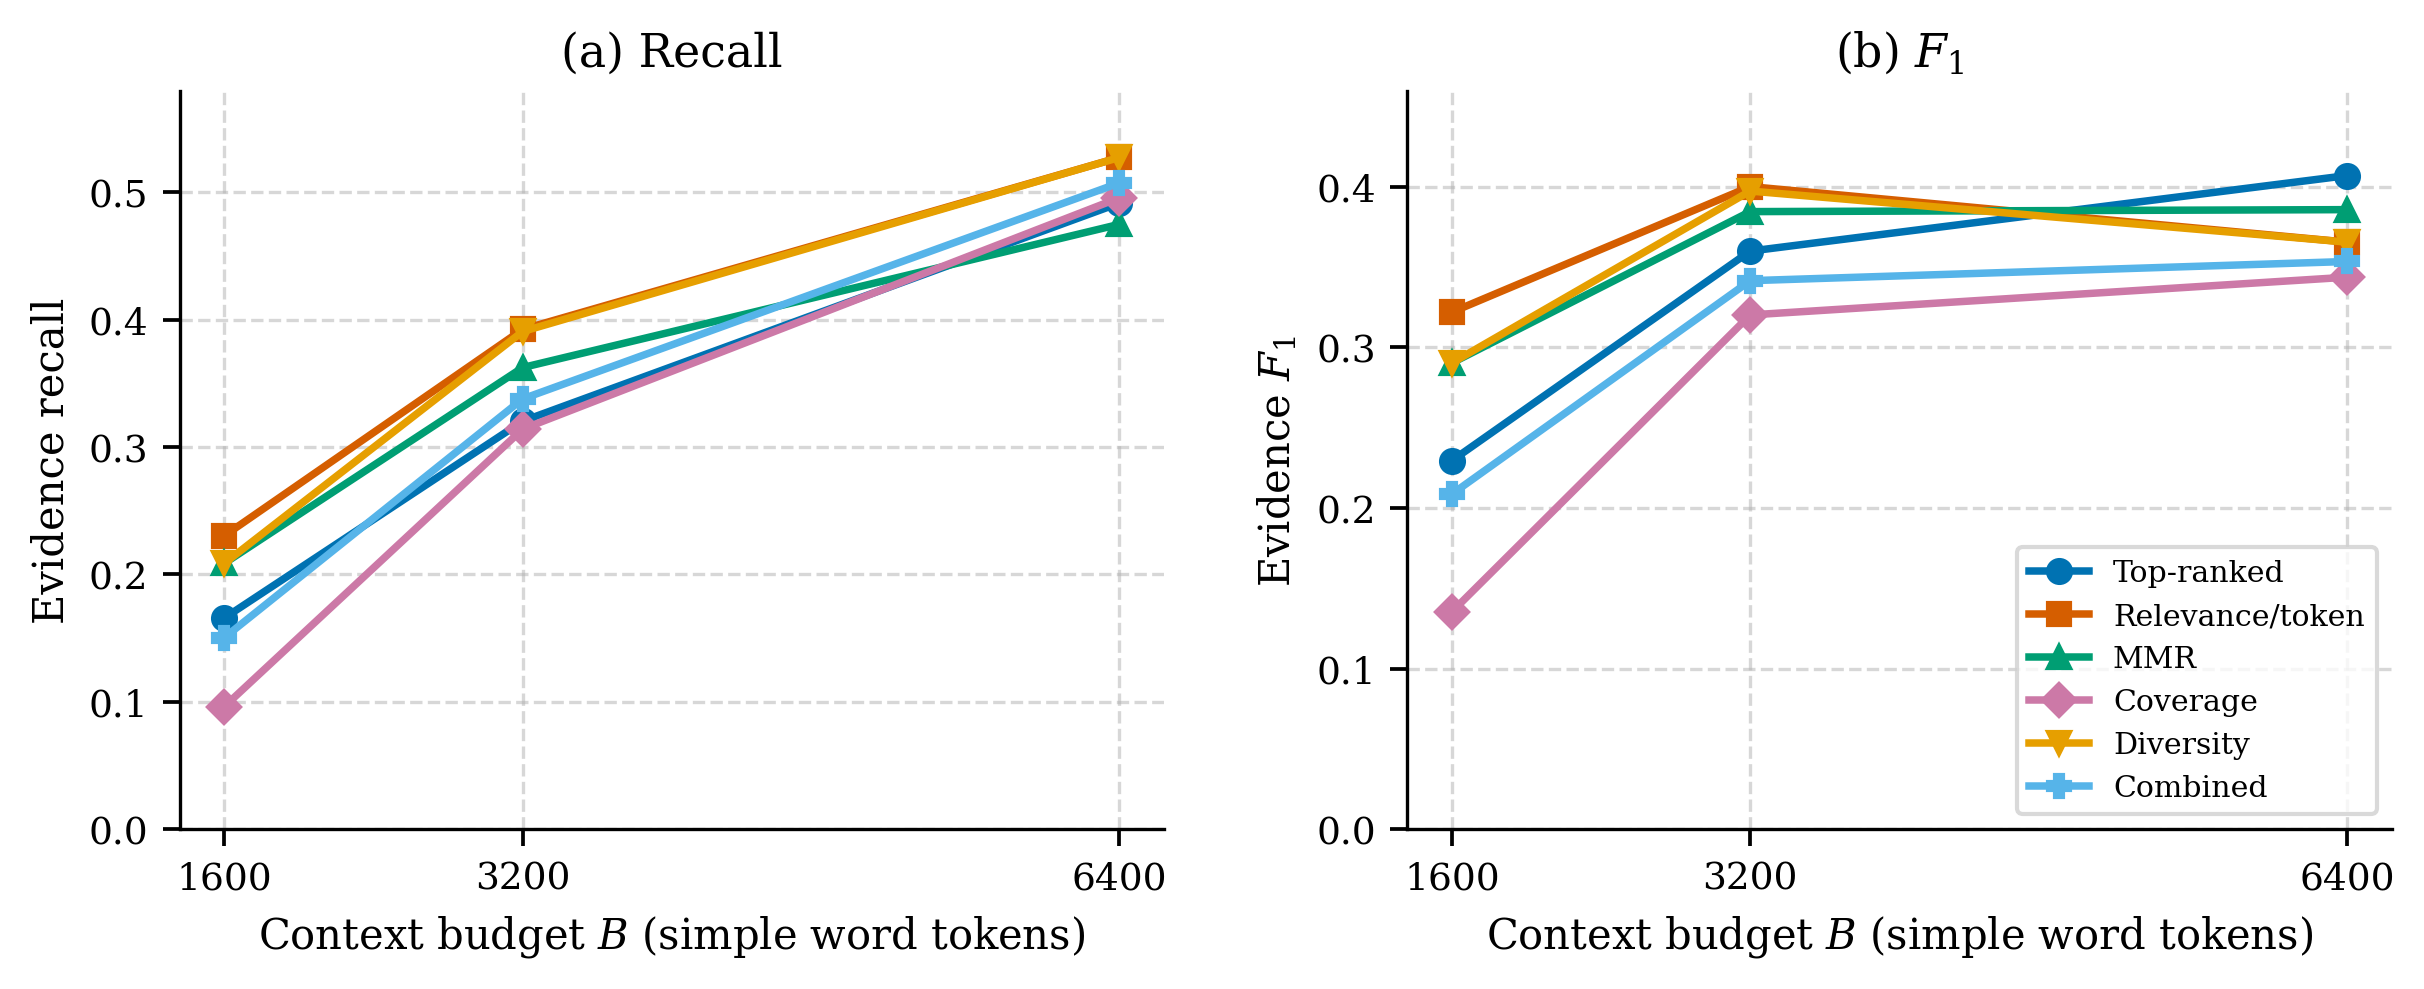
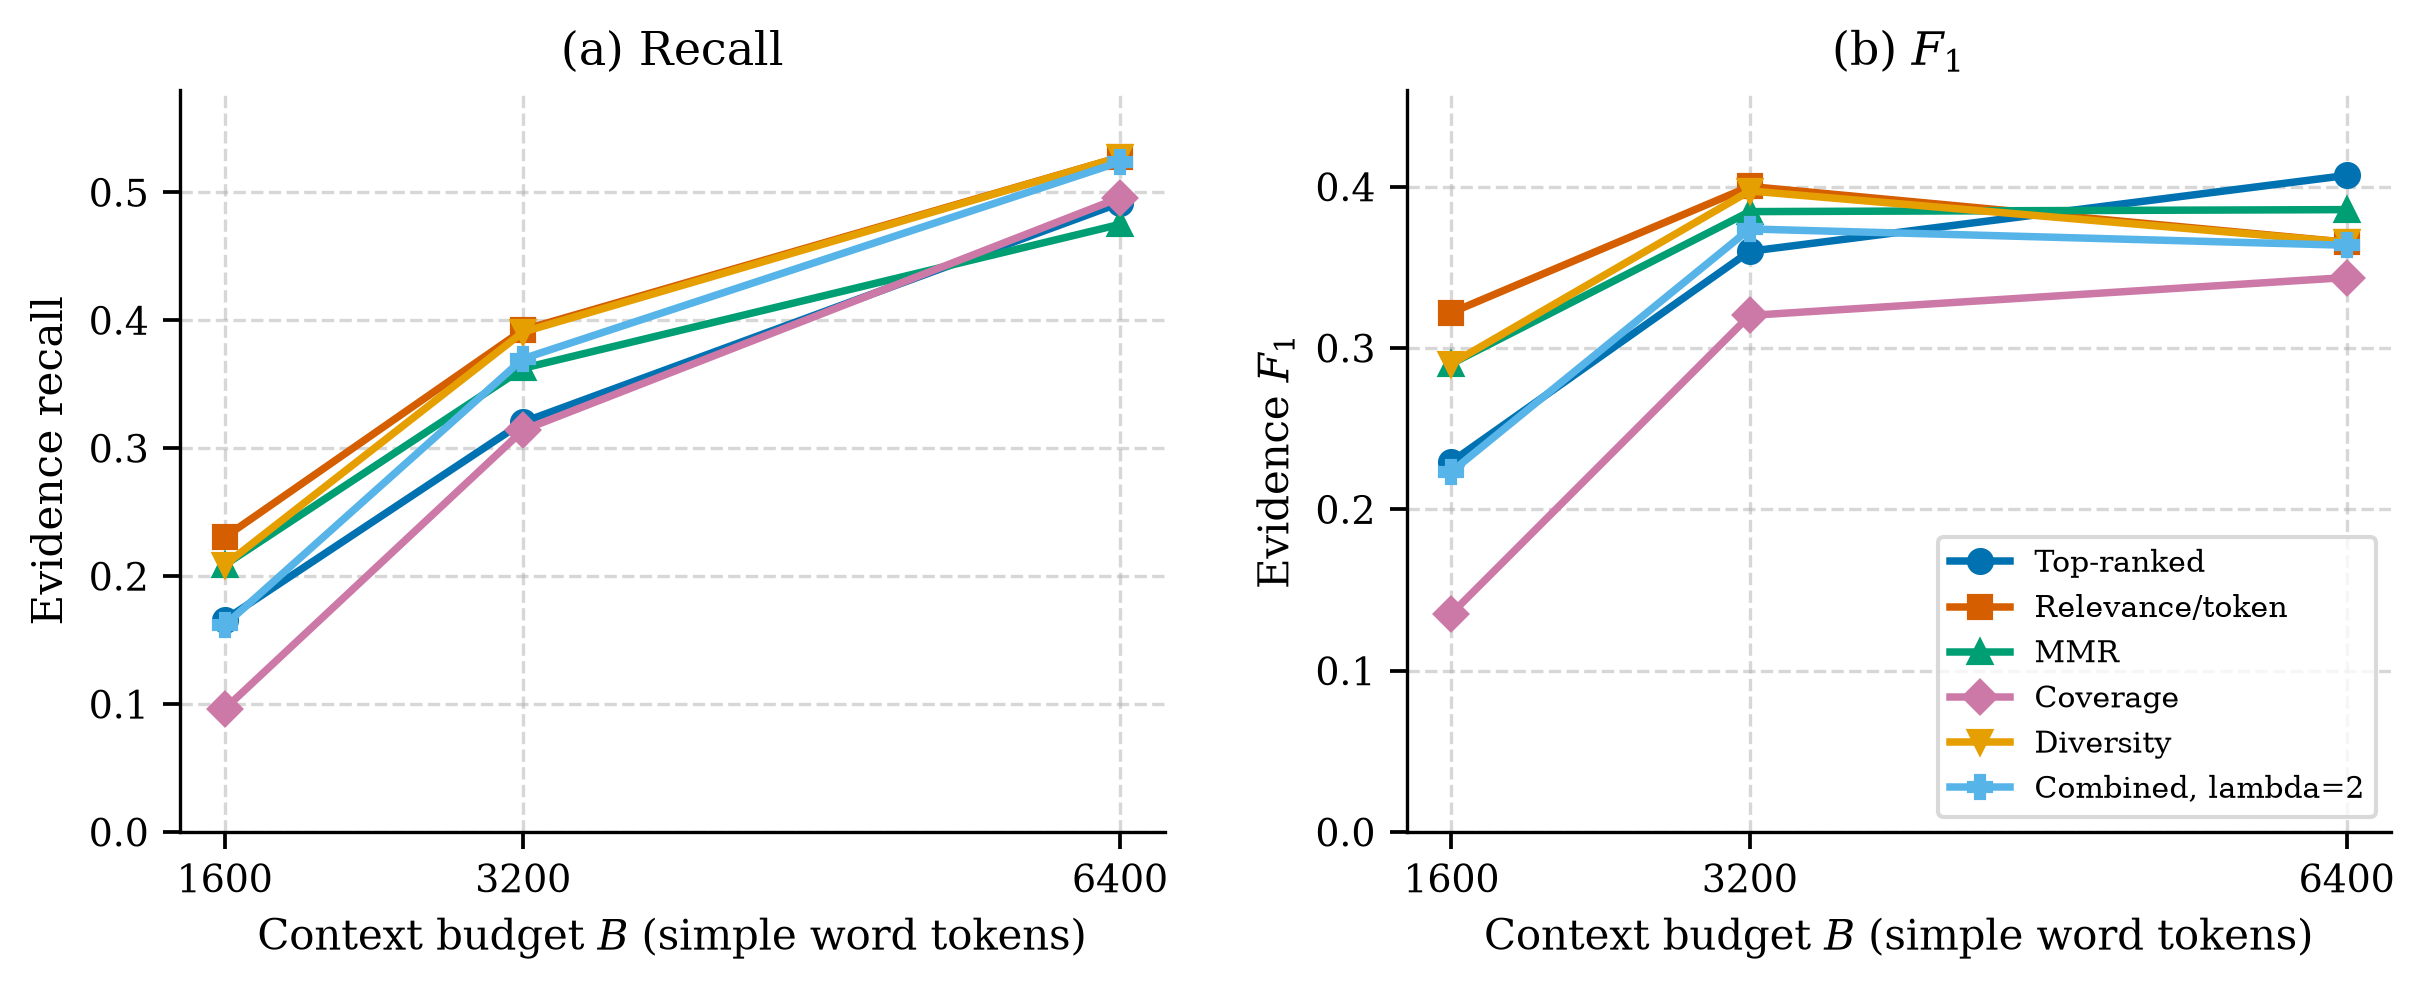
Update proj.

diff --git a/proj/scripts/plot_report_figures.py b/proj/scripts/plot_report_figures.py
@@ -14,7 +14,7 @@ from matplotlib.patches import FancyArrowPatch, FancyBboxPatch
 
 
 RUN_DIR = Path("proj/out/main/multihop_q200_docbudget_s13")
-OUT_DIR = Path("proj/report/figures/multihop_q200_docbudget_s13_2")
+OUT_DIR = Path("proj/report/figures/multihop_q200_docbudget_s13")
 ARTIFACT_DIR = OUT_DIR
 AGGREGATE_CSV = RUN_DIR / "aggregate_metrics.csv"
 OPTIMAL_CSV = RUN_DIR / "optimal_checks.csv"
@@ -25,7 +25,7 @@ METHODS = (
     "mmr",
     "submodular_coverage",
     "submodular_diversity",
-    "submodular_combined",
+    "submodular_combined_lambda_2",
 )
 
 SHORT_LABELS = {
@@ -34,7 +34,7 @@ SHORT_LABELS = {
     "mmr": "MMR",
     "submodular_coverage": "Coverage",
     "submodular_diversity": "Diversity",
-    "submodular_combined": "Combined",
+    "submodular_combined_lambda_2": "Combined, lambda=2",
 }
 
 COLORS = {
@@ -43,7 +43,7 @@ COLORS = {
     "mmr": "#009E73",
     "submodular_coverage": "#CC79A7",
     "submodular_diversity": "#E69F00",
-    "submodular_combined": "#56B4E9",
+    "submodular_combined_lambda_2": "#56B4E9",
 }
 
 MARKERS = {
@@ -52,7 +52,7 @@ MARKERS = {
     "mmr": "^",
     "submodular_coverage": "D",
     "submodular_diversity": "v",
-    "submodular_combined": "P",
+    "submodular_combined_lambda_2": "P",
 }
 
 
@@ -119,12 +119,9 @@ def style_axis(ax) -> None:
 def save_figure(fig, stem: str) -> None:
     OUT_DIR.mkdir(parents=True, exist_ok=True)
     png_path = OUT_DIR / f"{stem}.png"
-    pdf_path = OUT_DIR / f"{stem}.pdf"
     fig.savefig(png_path, bbox_inches="tight")
-    fig.savefig(pdf_path, bbox_inches="tight")
     plt.close(fig)
     print(f"Wrote {png_path}")
-    print(f"Wrote {pdf_path}")
 
 
 def aggregate_subset(
@@ -140,62 +137,6 @@ def aggregate_subset(
     if budget is not None:
         filtered = [row for row in filtered if as_int(row, "budget") == budget]
     return filtered
-
-
-def plot_method_overview() -> None:
-    fig, ax = plt.subplots(figsize=(8.2, 2.9), dpi=300)
-    ax.set_axis_off()
-
-    boxes = [
-        (0.02, 0.58, 0.18, 0.28, "Retrieved\ncandidates", "$C={d_1,\\ldots,d_n}$"),
-        (0.28, 0.58, 0.18, 0.28, "Features", "$r_i,\\ c_i,\\ w_{ij}$"),
-        (0.54, 0.58, 0.20, 0.28, "Budgeted greedy", "$\\max F(S)$\n$s.t.\\ \\sum c_i\\leq B$"),
-        (0.80, 0.58, 0.18, 0.28, "Selected context", "$S\\subseteq C$"),
-        (0.54, 0.10, 0.20, 0.24, "Gold evidence", "MultiHop-RAG\nlabels"),
-        (0.80, 0.10, 0.18, 0.24, "Evaluation", "Recall, precision,\n$F_1$, redundancy"),
-    ]
-
-    for x, y, width, height, title, detail in boxes:
-        patch = FancyBboxPatch(
-            (x, y),
-            width,
-            height,
-            boxstyle="round,pad=0.012,rounding_size=0.015",
-            linewidth=1.0,
-            edgecolor="#4a4a4a",
-            facecolor="#f7f7f7",
-        )
-        ax.add_patch(patch)
-        ax.text(x + width / 2, y + height * 0.66, title, ha="center", va="center", fontsize=10)
-        ax.text(
-            x + width / 2,
-            y + height * 0.32,
-            detail,
-            ha="center",
-            va="center",
-            fontsize=8.5,
-            color="#333333",
-        )
-
-    arrows = [
-        ((0.205, 0.72), (0.275, 0.72)),
-        ((0.465, 0.72), (0.535, 0.72)),
-        ((0.745, 0.72), (0.795, 0.72)),
-        ((0.89, 0.57), (0.89, 0.37)),
-        ((0.745, 0.22), (0.795, 0.22)),
-    ]
-    for start, end in arrows:
-        arrow = FancyArrowPatch(
-            start,
-            end,
-            arrowstyle="-|>",
-            mutation_scale=12,
-            linewidth=1.1,
-            color="#444444",
-        )
-        ax.add_patch(arrow)
-
-    save_figure(fig, "method_overview")
 
 
 def plot_budget_sensitivity(aggregate_rows: list[dict[str, str]]) -> None:
@@ -280,93 +221,6 @@ def plot_precision_recall(aggregate_rows: list[dict[str, str]]) -> None:
     )
     fig.tight_layout()
     save_figure(fig, "precision_recall_tradeoff")
-
-
-def plot_scalability_optimality(
-    aggregate_rows: list[dict[str, str]],
-    optimal_rows: list[dict[str, str]],
-) -> None:
-    fig, axes = plt.subplots(1, 2, figsize=(8.2, 3.5), dpi=300)
-    budget = 6400
-    runtime_methods = ("top_ranked", "relevance_ratio", "mmr", "submodular_combined")
-
-    for method in runtime_methods:
-        rows = aggregate_subset(aggregate_rows, method=method, budget=budget)
-        rows.sort(key=lambda row: as_int(row, "top_n"))
-        axes[0].plot(
-            [as_int(row, "top_n") for row in rows],
-            [as_float(row, "runtime_units_mean") for row in rows],
-            marker=MARKERS[method],
-            linewidth=1.8,
-            markersize=5.5,
-            color=COLORS[method],
-            label=SHORT_LABELS[method],
-        )
-    axes[0].set_title("(a) Runtime proxy")
-    axes[0].set_xlabel(r"Candidate set size $N$")
-    axes[0].set_ylabel(r"Runtime proxy units (log scale)")
-    axes[0].set_xticks([10, 20, 40])
-    axes[0].set_yscale("log")
-    style_axis(axes[0])
-    axes[0].legend(
-        loc="upper left",
-        fontsize=7.3,
-        frameon=True,
-        shadow=False,
-        facecolor="white",
-        edgecolor="#d0d0d0",
-    )
-
-    objectives = ("coverage", "diversity", "combined")
-    labels = ("Coverage", "Diversity", "Combined")
-    data = []
-    for objective in objectives:
-        values = [
-            as_float(row, "approx_ratio")
-            for row in optimal_rows
-            if row["status"] == "executed"
-            and row["selector"] == "budgeted_greedy"
-            and row["objective"] == objective
-            and row["approx_ratio"]
-        ]
-        data.append(values)
-
-    box = axes[1].boxplot(
-        data,
-        tick_labels=labels,
-        patch_artist=True,
-        widths=0.55,
-        showmeans=True,
-        meanprops={
-            "marker": "o",
-            "markerfacecolor": "#333333",
-            "markeredgecolor": "#333333",
-            "markersize": 4,
-        },
-        medianprops={"color": "#111111", "linewidth": 1.3},
-        boxprops={"linewidth": 1.0},
-        whiskerprops={"linewidth": 1.0},
-        capprops={"linewidth": 1.0},
-        flierprops={
-            "marker": ".",
-            "markerfacecolor": "#666666",
-            "markeredgecolor": "#666666",
-            "alpha": 0.30,
-        },
-    )
-    for patch, color in zip(box["boxes"], ("#CC79A7", "#E69F00", "#56B4E9"), strict=True):
-        patch.set_facecolor(color)
-        patch.set_alpha(0.65)
-
-    axes[1].axhline(1.0, color="#444444", linestyle="--", linewidth=1.0, alpha=0.8)
-    axes[1].set_title("(b) Greedy vs. exact optimum")
-    axes[1].set_xlabel(r"Objective")
-    axes[1].set_ylabel(r"$F(S_{\mathrm{greedy}})/F(S^*)$")
-    axes[1].set_ylim(0.0, 1.08)
-    style_axis(axes[1])
-
-    fig.tight_layout(w_pad=2.0)
-    save_figure(fig, "scalability_optimality")
 
 
 def plot_scalability_optimality_from_artifacts() -> None:
@@ -484,7 +338,9 @@ def plot_scalability_optimality_from_artifacts() -> None:
 
 def main() -> None:
     configure_matplotlib()
-    plot_method_overview()
+    aggregate_rows = read_csv(AGGREGATE_CSV)
+    plot_budget_sensitivity(aggregate_rows)
+    plot_precision_recall(aggregate_rows)
     plot_scalability_optimality_from_artifacts()
 
 

diff --git a/proj/src/selectors.py b/proj/src/selectors.py
@@ -1,6 +1,7 @@
 from __future__ import annotations
 
 from dataclasses import dataclass
+import heapq
 import random
 
 from .data import DataValidationError
@@ -13,6 +14,7 @@ class SelectionResult:
     indices: tuple[int, ...]
     total_cost: int
     objective_value: float | None = None
+    eval_count: int | None = None
 
 
 def budgeted_greedy(features: FeatureSet, objective: Objective, budget: int) -> SelectionResult:
@@ -49,6 +51,67 @@ def budgeted_greedy(features: FeatureSet, objective: Objective, budget: int) -> 
             return singleton
         if singleton.objective_value == greedy.objective_value and (singleton.total_cost, singleton.indices) < (greedy.total_cost, greedy.indices):
             return singleton
+    return greedy
+
+
+def lazy_budgeted_greedy(features: FeatureSet, objective: Objective, budget: int) -> SelectionResult:
+    _validate_budget(budget)
+    _validate_objective(objective)
+    selected: list[int] = []
+    total_cost = 0
+    eval_count = 0
+    queue: list[tuple[float, float, int, str, int, int]] = []
+
+    for item in range(len(features.doc_ids)):
+        if features.costs[item] <= budget:
+            gain = objective.marginal_gain(selected, item)
+            eval_count += 1
+            heapq.heappush(
+                queue,
+                (
+                    -(gain / features.costs[item]),
+                    -gain,
+                    features.costs[item],
+                    features.doc_ids[item],
+                    item,
+                    0,
+                ),
+            )
+
+    while queue:
+        neg_density, neg_gain, cost, doc_id, item, version = heapq.heappop(queue)
+        if total_cost + cost > budget:
+            continue
+
+        if version == len(selected):
+            gain = -neg_gain
+            if gain <= 0:
+                break
+            selected.append(item)
+            total_cost += cost
+            continue
+
+        gain = objective.marginal_gain(selected, item)
+        eval_count += 1
+        heapq.heappush(
+            queue,
+            (
+                -(gain / features.costs[item]),
+                -gain,
+                cost,
+                doc_id,
+                item,
+                len(selected),
+            ),
+        )
+
+    greedy = SelectionResult(tuple(selected), total_cost, objective.value(selected), eval_count)
+    singleton = _best_feasible_singleton(features, objective, budget)
+    if singleton.objective_value is not None and greedy.objective_value is not None:
+        if singleton.objective_value > greedy.objective_value:
+            return SelectionResult(singleton.indices, singleton.total_cost, singleton.objective_value, eval_count)
+        if singleton.objective_value == greedy.objective_value and (singleton.total_cost, singleton.indices) < (greedy.total_cost, greedy.indices):
+            return SelectionResult(singleton.indices, singleton.total_cost, singleton.objective_value, eval_count)
     return greedy
 
 

diff --git a/proj/src/experiments.py b/proj/src/experiments.py
@@ -26,12 +26,12 @@ from .metrics import evaluate_selection
 from .objectives import Objective, combined_objective, coverage_objective, diversity_objective
 from .paths import has_symlink_parent
 from .retrieval import retrieve_top_n
-from .selectors import budgeted_greedy, exhaustive_optimal, mmr, relevance_ratio, seeded_random, top_ranked
+from .selectors import lazy_budgeted_greedy, budgeted_greedy, exhaustive_optimal, mmr, relevance_ratio, seeded_random, top_ranked
 
 
 DEFAULT_BUDGET = 18
 DEFAULT_TOP_N = 5
-DEFAULT_SELECTORS = ("top_ranked", "relevance_ratio", "random_seeded", "mmr", "budgeted_greedy")
+DEFAULT_SELECTORS = ("top_ranked", "relevance_ratio", "random_seeded", "mmr", "budgeted_greedy", "lazy_budgeted_greedy")
 DEFAULT_OBJECTIVES = ("coverage", "diversity", "combined")
 BASELINE_OBJECTIVE = "none"
 BASELINE_LAMBDA = 0.0
@@ -618,11 +618,14 @@ def _candidate_rows(candidates_by_top_n: dict[int, dict[str, list[Candidate]]]) 
 
 def _method_specs(config: ExperimentConfig):
     for selector in config.selectors:
-        if selector == "budgeted_greedy":
+        if selector in {"budgeted_greedy", "lazy_budgeted_greedy"}:
             for objective in config.objectives:
                 lambda_values = config.combined_lambdas if objective == "combined" else (BASELINE_LAMBDA,)
                 for lambda_value in lambda_values:
-                    yield selector, objective, lambda_value, _submodular_label(objective, lambda_value, len(lambda_values))
+                    label = _submodular_label(objective, lambda_value, len(lambda_values))
+                    if selector == "lazy_budgeted_greedy":
+                        label = f"lazy_{label}"
+                    yield selector, objective, lambda_value, label
         else:
             yield selector, BASELINE_OBJECTIVE, BASELINE_LAMBDA, selector
 
@@ -651,6 +654,8 @@ def _run_selector(
         result = mmr(features, budget, lambda_value=config.mmr_lambda)
     elif selector == "budgeted_greedy":
         result = budgeted_greedy(features, _objective_for(features, objective_name, lambda_value), budget)
+    elif selector == "lazy_budgeted_greedy":
+        result = lazy_budgeted_greedy(features, _objective_for(features, objective_name, lambda_value), budget)
     else:
         raise DataValidationError(f"unknown selector: {selector}")
     runtime_units = _runtime_units(selector, features, result)
@@ -663,6 +668,8 @@ def _query_seed(seed: int, query_id: str) -> int:
 
 
 def _runtime_units(selector: str, features: FeatureSet, result) -> int:
+    if selector == "lazy_budgeted_greedy":
+        return result.eval_count if result.eval_count is not None else 0
     n = len(features.doc_ids)
     selected = max(1, len(result.indices))
     if selector == "top_ranked":
